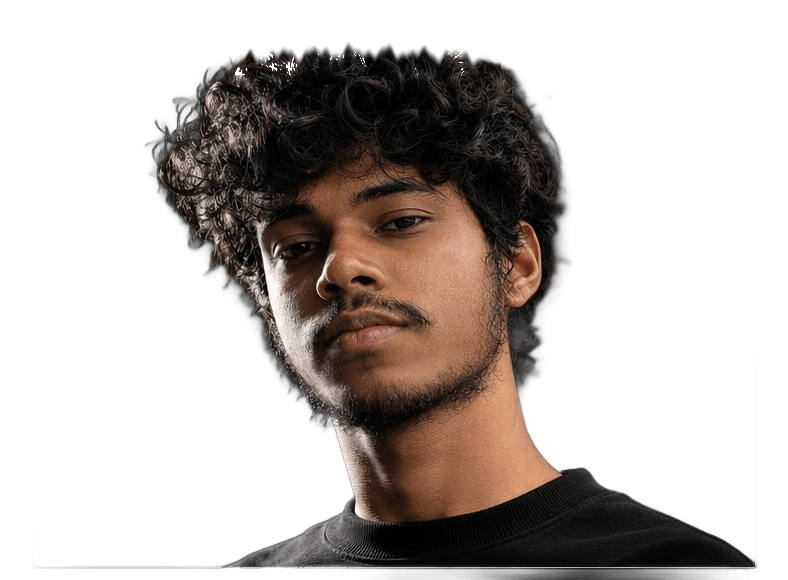
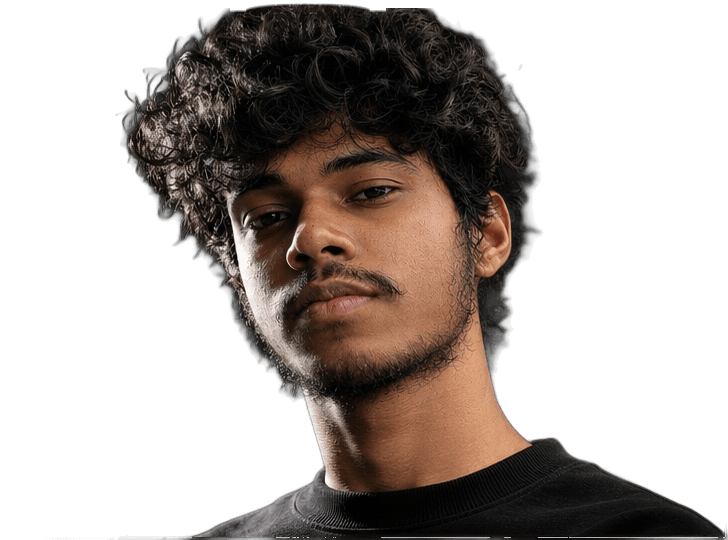
fix(hero): natural smooth dome curvature for authentic curly hair crown

Changed region(s): [[0.0907, 0.0, 1.0, 1.0], [0.8462, 0.8889, 0.9066, 0.9185], [0.544, 0.7111, 0.5742, 0.7407]]

diff --git a/components/portfolio.tsx b/components/portfolio.tsx
@@ -160,8 +160,8 @@ export default function Portfolio() {
                 src="/images/portfolio-portrait-hero-transparent.png"
                 alt="Charitha — Web & AI Developer"
                 className="hero-subject-image"
-                width={788}
-                height={580}
+                width={728}
+                height={540}
                 fetchPriority="high"
                 onError={() => setPortraitFailed(true)}
               />
